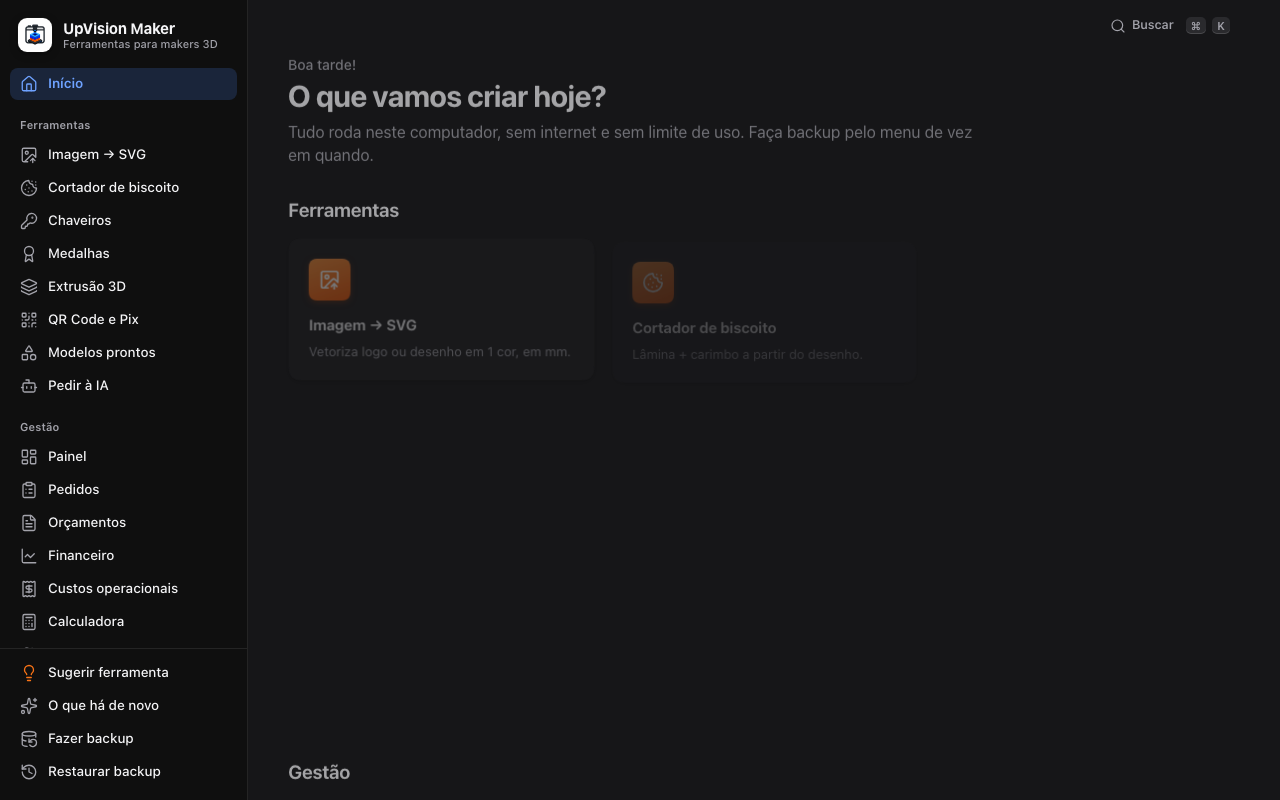
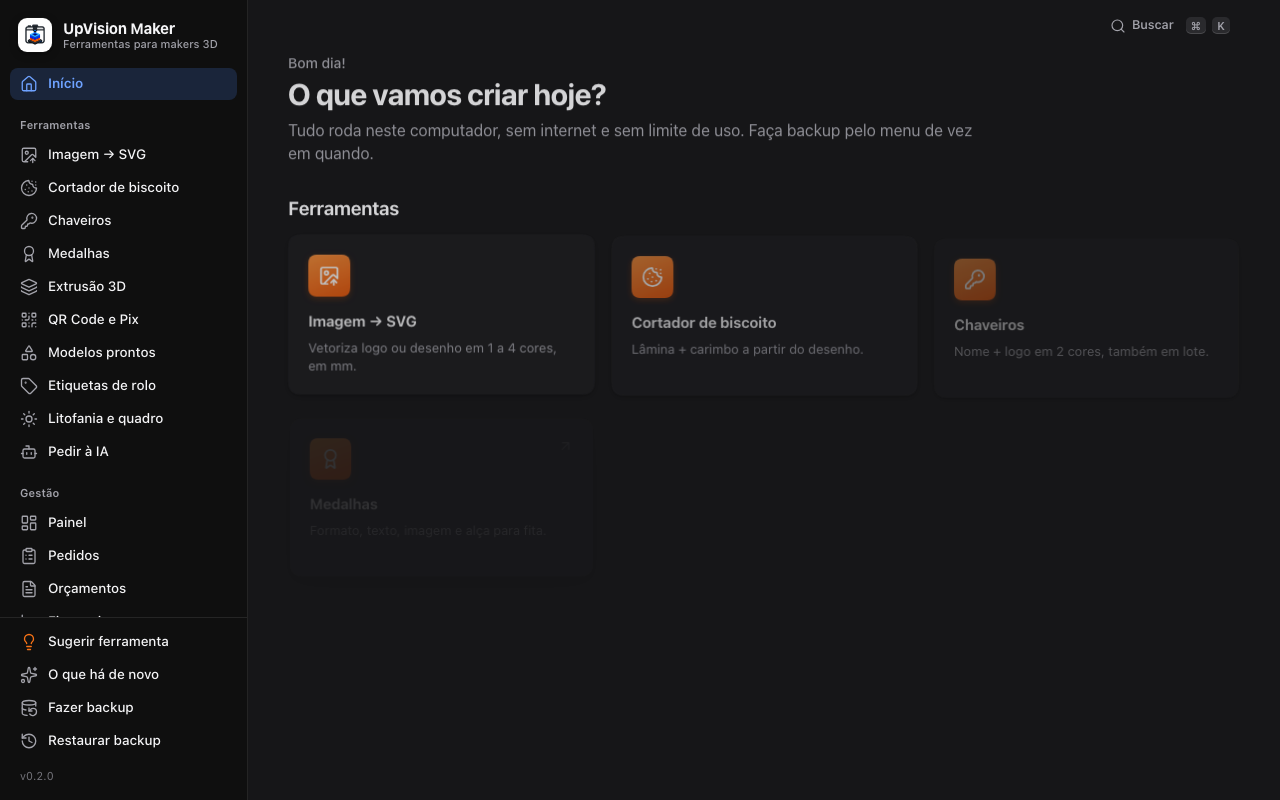
chore: versão 0.6.0 e novidades no CHANGELOG

diff --git a/CHANGELOG.md b/CHANGELOG.md
@@ -3,7 +3,10 @@
 Cada versão aparece para a usuária na tela "O que há de novo" depois da atualização.
 Formato: `## <versão> — <data>` e itens `- …` em linguagem simples.
 
-## Próxima versão (vira "## 0.6.0 — data" ao publicar; até lá o app não mostra)
+## 0.6.0 — 2026-09-29
+- **Medalhas bem mais personalizáveis**: formatos novos, textos em arco, número de colocação, bordas e fundos com textura, imagem que você posiciona, verso com pinos de encaixe, modelos prontos (corrida, formatura, campeonato…) e medalhas em lote a partir de uma lista.
+- **8 modelos prontos novos**: placa QR (Wi-Fi, WhatsApp, Instagram, avaliação no Google, link), placa com vários QRs, desenho em pé, tag de pet, placa de profissão, cartão de visita com QR e NFC, chaveiro espelho e floco de neve com nome.
+- **Clipe de saco corrigido**: agora é uma pinça em U que prende de verdade (hastes flexíveis e dente de trava) e já abre com um coração de exemplo, sem precisar enviar desenho.
 - **56 fontes** para chaveiros, modelos prontos e Pedir à IA (cursivas, grossas, divertidas, infantis, elegantes, retrô e serifadas), todas funcionando sem internet. O **seletor de fonte** mostra o nome que você digitou em cada uma, com busca, categorias e **favoritas** (estrela).
 - **Importar fonte** do computador (.ttf ou .otf): fica salva no app e aparece em "Minhas".
 - **Aviso de impressão**: o app avisa quando a fonte fica com traço mais fino que 0,4 mm no tamanho escolhido, ou quando uma cursiva não une as letras.
